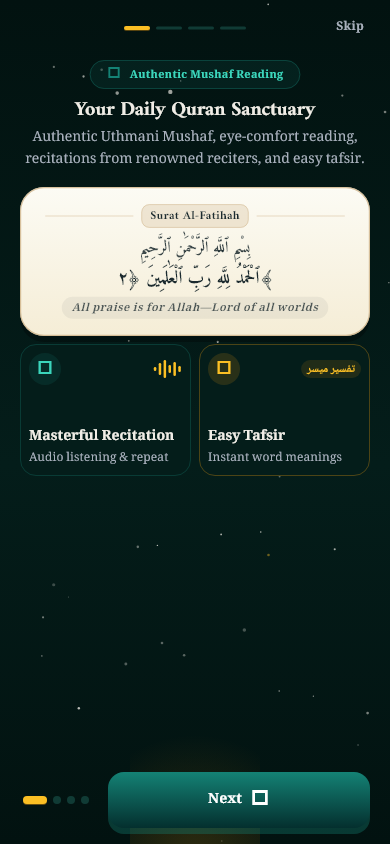
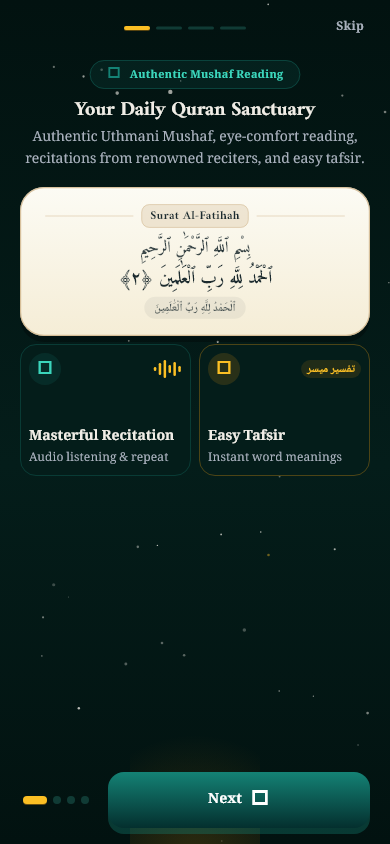
fix(onboarding): show the Fatiha 1:2 pill in Arabic for every locale
- The Mushaf preview pill now shows ayah 1:2 verbatim from quran.json
  in all locales (owner decision); the English translation had no
  recorded source (CONTENT-2) and is removed
- Drop the onboardingBentoMushafAyah l10n key, which also removes a
  hand-typed Arabic copy of the ayah from the ARB file
- OnboardingSourceAyah renders RTL regardless of UI locale, so the end-
  of-ayah marker sits on the correct side in the English UI (it was
  reversed before)

Changed region(s): [[0.1846, 0.3081, 0.8, 0.3697]]

diff --git a/lib/features/onboarding/presentation/widgets/onboarding_mushaf_bento_view.dart b/lib/features/onboarding/presentation/widgets/onboarding_mushaf_bento_view.dart
@@ -202,31 +202,19 @@ class OnboardingMushafBentoView extends StatelessWidget {
                         AppSpacing.radiusFull,
                       ),
                     ),
-                    // Arabic shows the ayah itself, so it comes from the
-                    // source; English shows the (localized) translation.
-                    child: context.isArabic
-                        ? OnboardingSourceAyah(
-                            surah: 1,
-                            ayah: 2,
-                            builder: (context, text) => Text(
-                              text,
-                              textAlign: TextAlign.center,
-                              style: AppTypography.labelSmall.copyWith(
-                                color: AppColors.inkDeep.withValues(
-                                  alpha: 0.75,
-                                ),
-                                fontStyle: FontStyle.normal,
-                              ),
-                            ),
-                          )
-                        : Text(
-                            l10n.onboardingBentoMushafAyah,
-                            textAlign: TextAlign.center,
-                            style: AppTypography.labelSmall.copyWith(
-                              color: AppColors.inkDeep.withValues(alpha: 0.75),
-                              fontStyle: FontStyle.italic,
-                            ),
-                          ),
+                    // The ayah in Arabic for every locale, verbatim from
+                    // the source (no unsourced translation — owner decision).
+                    child: OnboardingSourceAyah(
+                      surah: 1,
+                      ayah: 2,
+                      builder: (context, text) => Text(
+                        text,
+                        textAlign: TextAlign.center,
+                        style: AppTypography.labelSmall.copyWith(
+                          color: AppColors.inkDeep.withValues(alpha: 0.75),
+                        ),
+                      ),
+                    ),
                   ),
                 ],
               ),

diff --git a/test/features/onboarding/onboarding_source_ayah_test.dart b/test/features/onboarding/onboarding_source_ayah_test.dart
@@ -68,6 +68,34 @@ void main() {
     expect(find.text('[نص المصدر]'), findsOneWidget);
   });
 
+  testWidgets('renders the ayah right-to-left even in an LTR locale', (
+    tester,
+  ) async {
+    getIt.registerSingleton<QuranRepository>(
+      _Repo(const [Ayah(number: 1, surahId: 1, text: 'نص', numberInSurah: 1)]),
+    );
+    late TextDirection seen;
+
+    await tester.pumpWidget(
+      MaterialApp(
+        home: Directionality(
+          textDirection: TextDirection.ltr,
+          child: OnboardingSourceAyah(
+            surah: 1,
+            ayah: 1,
+            builder: (context, text) {
+              seen = Directionality.of(context);
+              return Text(text);
+            },
+          ),
+        ),
+      ),
+    );
+    await tester.pumpAndSettle();
+
+    expect(seen, TextDirection.rtl);
+  });
+
   testWidgets('renders nothing when the Quran source is unavailable', (
     tester,
   ) async {

diff --git a/lib/features/onboarding/presentation/widgets/onboarding_source_ayah.dart b/lib/features/onboarding/presentation/widgets/onboarding_source_ayah.dart
@@ -59,7 +59,12 @@ class OnboardingSourceAyah extends StatelessWidget {
       builder: (context, snapshot) {
         final text = snapshot.data;
         if (text == null || text.isEmpty) return const SizedBox.shrink();
-        return builder(context, text);
+        // Quran text is right-to-left in every UI locale; otherwise the
+        // end-of-ayah marker lands on the wrong side in English.
+        return Directionality(
+          textDirection: TextDirection.rtl,
+          child: Builder(builder: (context) => builder(context, text)),
+        );
       },
     );
   }

diff --git a/lib/core/l10n/app_localizations.dart b/lib/core/l10n/app_localizations.dart
@@ -3585,12 +3585,6 @@ abstract class AppLocalizations {
   /// **'سورة الفاتحة'**
   String get onboardingBentoMushafSurah;
 
-  /// No description provided for @onboardingBentoMushafAyah.
-  ///
-  /// In ar, this message translates to:
-  /// **'ٱلْحَمْدُ لِلَّهِ رَبِّ ٱلْعَٰلَمِينَ'**
-  String get onboardingBentoMushafAyah;
-
   /// No description provided for @onboardingBentoListeningTitle.
   ///
   /// In ar, this message translates to:

diff --git a/lib/core/l10n/app_localizations_ar.dart b/lib/core/l10n/app_localizations_ar.dart
@@ -1911,10 +1911,6 @@ class AppLocalizationsAr extends AppLocalizations {
   String get onboardingBentoMushafSurah => 'سورة الفاتحة';
 
   @override
-  String get onboardingBentoMushafAyah =>
-      'ٱلْحَمْدُ لِلَّهِ رَبِّ ٱلْعَٰلَمِينَ';
-
-  @override
   String get onboardingBentoListeningTitle => 'تلاوات متقنة';
 
   @override

diff --git a/lib/core/l10n/app_localizations_en.dart b/lib/core/l10n/app_localizations_en.dart
@@ -1923,10 +1923,6 @@ class AppLocalizationsEn extends AppLocalizations {
   String get onboardingBentoMushafSurah => 'Surat Al-Fatihah';
 
   @override
-  String get onboardingBentoMushafAyah =>
-      'All praise is for Allah—Lord of all worlds';
-
-  @override
   String get onboardingBentoListeningTitle => 'Masterful Recitation';
 
   @override
